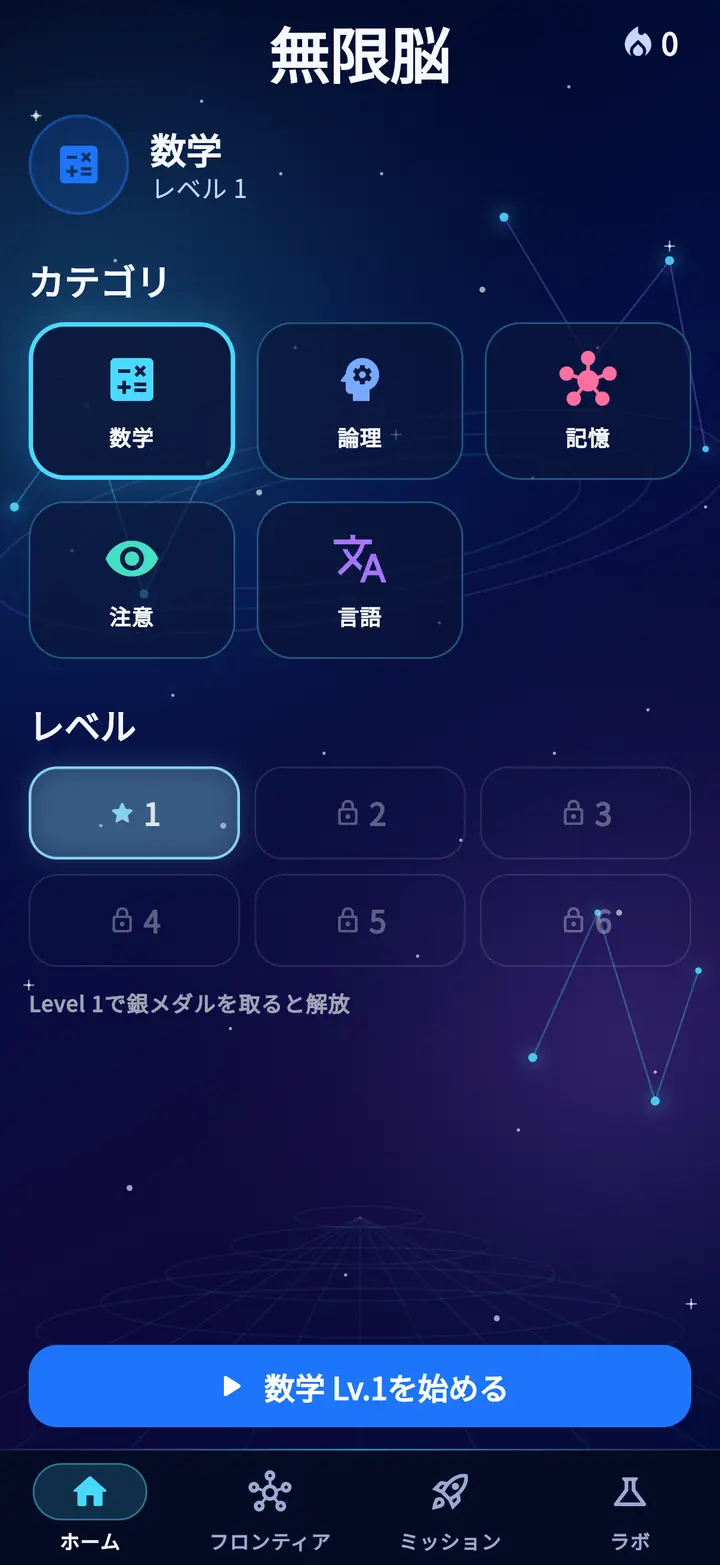
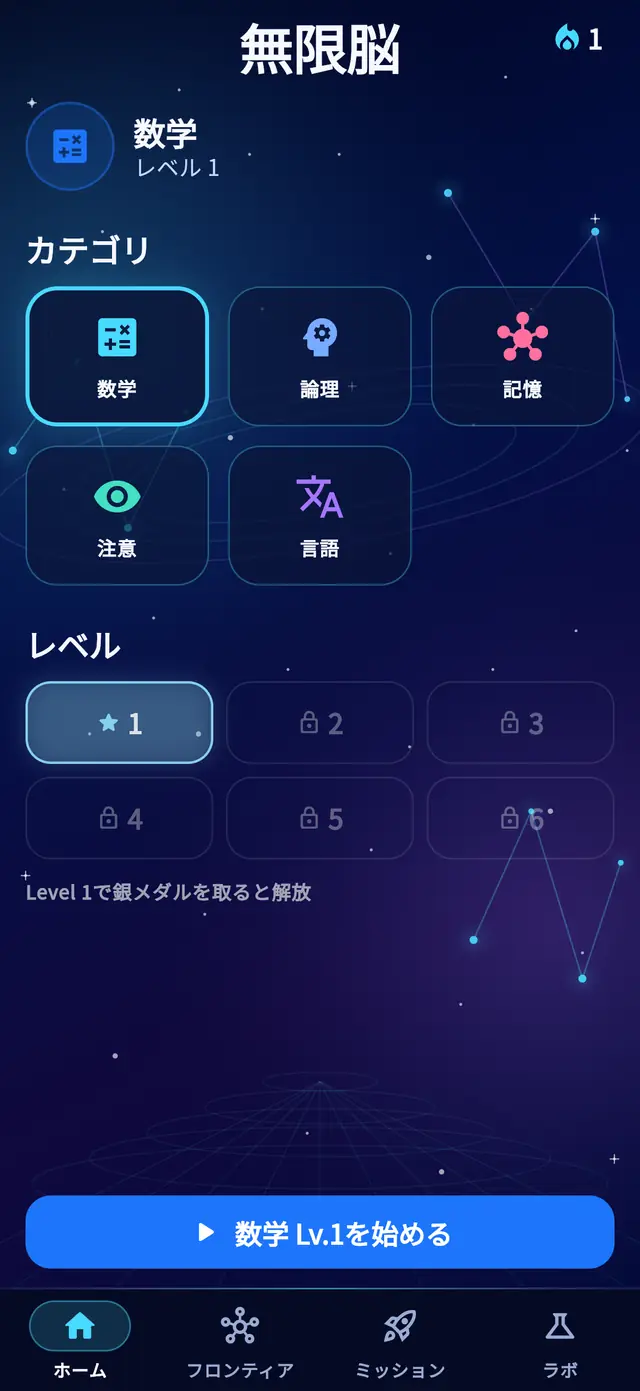
chore(site): 無限脳のスクショを9枚に増やし、デモ用の記録を入れて撮り直す
5枚 → 9枚。結果画面を出題の後ろに、プレイカレンダーをフロンティアと
ミッションの間に、末尾に設定とアクセシビリティを足した。

ホーム／出題／結果／ニューラル・フロンティア／プレイカレンダー／
ミッション／研究ラボ／設定／アクセシビリティ

撮り方（ストア素材と同じ考え方）:
- 結果画面は URL に カテゴリ/レベル/正解数/問題数 が入っているので
  #/results/math/1/10/10 を直接開いて金メダルの状態で撮る
- 進捗まわり（カレンダー・航路シグナル・ブレインコア・NEURAL INDEX）は
  まっさらだと全部0なので、localStorage の flutter.* にデモ用の記録を
  仕込んでから撮る。連続記録だけはアプリが起動時に計算し直すので、
  今日ぶんは実際に1回プレイして繋いでいる
- 他社広告は遮断。端末幅402px・DPR3で撮影

- WebP 9枚で合計297KB（640px幅・品質72）
- 帯は1組が9枚に増えたので 5組 → 4組（1組 約1822px・4組で4K幅まで
  空きなし。実測: 幅1440pxで1組送った後も5464px残る）。速度を保つため 59s

diff --git a/googja/src/data/site.ts b/googja/src/data/site.ts
@@ -78,7 +78,8 @@ export interface Shot {
 	alt: string;
 }
 
-/** 無限脳 の実画面（公開中のWeb版から撮影・端末幅402px・他社広告は遮断）。
+/** 無限脳 の実画面（公開中のWeb版から撮影・端末幅402px・他社広告は遮断。
+    進捗まわりはストア素材と同じくデモ用の記録を入れた状態で撮っている）。
     技術名を流す帯の代わりに、ヒーロー直下で実物を見せる。 */
 export const shots: Shot[] = [
 	{
@@ -91,24 +92,48 @@ export const shots: Shot[] = [
 		no: '02',
 		src: '/works/brain-infinity/02-quiz.webp',
 		caption: '1問30秒・1セッション10問',
-		alt: '無限脳の出題画面。残り時間と1/10の進捗、数列の問題、4つの選択肢が表示されている。',
+		alt: '無限脳の出題画面。残り時間と1/10の進捗、問題文、4つの選択肢が表示されている。',
 	},
 	{
 		no: '03',
-		src: '/works/brain-infinity/03-frontier.webp',
-		caption: 'ニューラル・フロンティア',
-		alt: '無限脳のニューラル・フロンティア画面。カテゴリを惑星として航路で結び、到達レベルと航路シグナルの点灯数を表示している。',
+		src: '/works/brain-infinity/03-result.webp',
+		caption: '結果とメダル判定',
+		alt: '無限脳の結果画面。10問中10問正解で金メダル、最高連続正解の数が表示されている。',
 	},
 	{
 		no: '04',
-		src: '/works/brain-infinity/04-mission.webp',
+		src: '/works/brain-infinity/04-frontier.webp',
+		caption: 'ニューラル・フロンティア',
+		alt: '無限脳のフロンティア画面。カテゴリを惑星として航路で結び、到達レベルと航路シグナルの点灯数を表示している。',
+	},
+	{
+		no: '05',
+		src: '/works/brain-infinity/05-calendar.webp',
+		caption: 'プレイカレンダーと連続記録',
+		alt: '無限脳のプレイカレンダー画面。連続記録とプレイ日数、月別のカレンダーに実施日が印されている。',
+	},
+	{
+		no: '06',
+		src: '/works/brain-infinity/06-mission.webp',
 		caption: 'ミッションと成長ログ',
 		alt: '無限脳のミッション画面。コアのおすすめ、今日のオービット、成長ログが並んでいる。',
 	},
 	{
-		no: '05',
-		src: '/works/brain-infinity/05-lab.webp',
-		caption: '研究ラボ（ブレインコアと能力バランス）',
-		alt: '無限脳の研究ラボ画面。ブレインコアのレベルとXP、適応トレーニングの内訳、NEURAL INDEX が表示されている。',
+		no: '07',
+		src: '/works/brain-infinity/07-lab.webp',
+		caption: '研究ラボ（ブレインコアとNEURAL INDEX）',
+		alt: '無限脳の研究ラボ画面。ブレインコアのレベルとXP、適応トレーニングの内訳、NEURAL INDEX と成長軌道が表示されている。',
+	},
+	{
+		no: '08',
+		src: '/works/brain-infinity/08-settings.webp',
+		caption: '設定（言語・サウンド・プライバシー）',
+		alt: '無限脳の設定画面。言語と名前、効果音と音楽、アクセシビリティへの導線、生まれた年と利用状況データの送信が並んでいる。',
+	},
+	{
+		no: '09',
+		src: '/works/brain-infinity/09-accessibility.webp',
+		caption: 'アクセシビリティ',
+		alt: '無限脳のアクセシビリティ画面。高コントラスト、画面のズーム、形状とラベル、視差効果を減らす、字幕の切り替えが並んでいる。',
 	},
 ];

diff --git a/googja/src/styles/site.css b/googja/src/styles/site.css
@@ -349,7 +349,7 @@ p, h1, h2, h3, li, dd, dt, figcaption { word-break: auto-phrase; line-break: str
 	margin-bottom: clamp(1.1rem, 2.4vw, 1.6rem);
 }
 .proof__rail { overflow: hidden; }
-.proof__track { --groups: 5; display: flex; width: max-content; animation: proof-scroll 33s linear infinite; }
+.proof__track { --groups: 4; display: flex; width: max-content; animation: proof-scroll 59s linear infinite; }
 /* 読みたいときに止められるように（WCAG 2.2.2 の逃げ道。keyboard も止まる） */
 .proof__rail:hover .proof__track,
 .proof__rail:focus-within .proof__track { animation-play-state: paused; }
